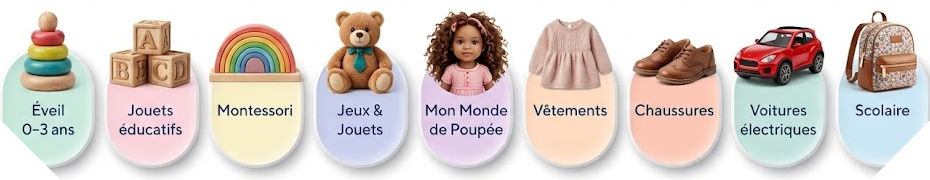
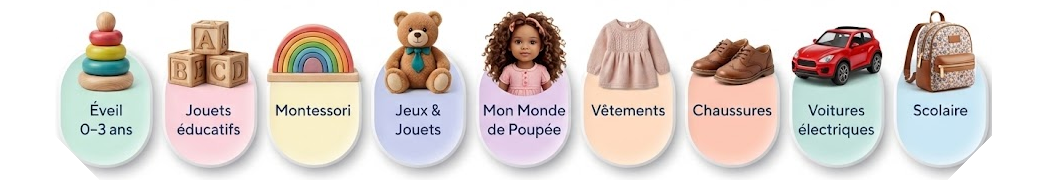
Add spacing around edge category buttons

diff --git a/app/storefront/shop-reference.css b/app/storefront/shop-reference.css
@@ -1,4 +1,4 @@
-.shop-home-sections{background:#fff;padding-bottom:52px}.shop-benefits{display:grid;grid-template-columns:repeat(3,1fr);gap:24px;padding:20px 22px;border-bottom:1px solid #eee}.shop-benefits>div{display:flex;align-items:center;justify-content:center;gap:12px;color:#17364a}.shop-benefits b{font-size:26px}.shop-benefits span{display:grid;font-size:11px;color:#6b7780}.shop-benefits strong{font-size:13px;color:#17364a}.shop-category-strip{margin-block:24px;padding:0;overflow-x:auto;background:#fff;border:1px solid #e8edf0;border-radius:999px;box-shadow:0 6px 22px rgba(23,54,74,.06)}.shop-category-rail{position:relative;width:100%;min-width:930px}.shop-category-rail>img{display:block;width:100%;height:auto}.shop-category-links{position:absolute;inset:0;display:grid;grid-template-columns:repeat(9,1fr)}.shop-category-links a{display:block;border-radius:46px;transition:background .18s ease}.shop-category-links a:hover{background:rgba(255,255,255,.16)}.shop-world-grid{display:grid;grid-template-columns:repeat(4,1fr);gap:12px}.shop-world-grid>a{position:relative;min-height:265px;display:grid;grid-template-columns:54% 46%;overflow:hidden;border-radius:16px;padding:24px 0 0 24px;color:#17364a;background:#fdebea}.shop-world-grid>a:nth-child(2){background:#fce4ee}.shop-world-grid>a:nth-child(3){background:#dcebf6}.shop-world-grid>a:nth-child(4){background:#f8e7ed}.shop-world-grid h2{margin:0 0 10px;font:800 25px/1.02 Arial,sans-serif;text-transform:uppercase}.shop-world-grid p{font-size:13px;line-height:1.4}.shop-world-grid div>span,.shop-seasonal div>span{display:inline-flex;margin-top:12px;padding:9px 14px;border-radius:999px;background:#ed2470;color:#fff;font-size:12px;font-weight:800}.shop-world-grid img{align-self:end;width:100%;height:220px;object-fit:contain;object-position:center bottom}.shop-age{padding-top:30px}.shop-age h2{text-align:center;font:800 25px Arial;color:#17364a}.shop-age>div{display:grid;grid-template-columns:repeat(6,1fr);gap:10px}.shop-age a{display:grid;place-items:center;min-height:100px;border-radius:12px;background:#fff9f6;color:#17364a}.shop-age b{font-size:38px}.shop-age span{font-size:12px;font-weight:800}.shop-seasonal{display:grid;grid-template-columns:1fr 1fr;gap:12px;padding-top:26px}.shop-seasonal>a{display:flex;justify-content:space-between;align-items:center;min-height:145px;padding:24px;border-radius:16px;background:#f8e9d5;color:#17364a}.shop-seasonal>a:nth-child(2){background:#fde7e7}.shop-seasonal h2{font:700 24px/1.05 Georgia,serif;margin:0}.shop-seasonal p{font-size:12px}.shop-seasonal>a>span{font-size:55px}.shop-brands{padding-top:24px}.shop-brands h2{font-size:15px}.shop-brands>div{display:flex;justify-content:center;align-items:center;gap:42px;flex-wrap:wrap;padding:20px}.shop-brands a{font-size:22px;font-weight:900;color:#17456b}.shop-brands a:nth-child(2){color:#e2211c}.shop-brands a:nth-child(5){color:#e52878;font-family:Georgia,serif;font-style:italic}
+.shop-home-sections{background:#fff;padding-bottom:52px}.shop-benefits{display:grid;grid-template-columns:repeat(3,1fr);gap:24px;padding:20px 22px;border-bottom:1px solid #eee}.shop-benefits>div{display:flex;align-items:center;justify-content:center;gap:12px;color:#17364a}.shop-benefits b{font-size:26px}.shop-benefits span{display:grid;font-size:11px;color:#6b7780}.shop-benefits strong{font-size:13px;color:#17364a}.shop-category-strip{margin-block:24px;padding:0;overflow-x:auto;background:#fff;border:1px solid #e8edf0;border-radius:999px;box-shadow:0 6px 22px rgba(23,54,74,.06)}.shop-category-rail{position:relative;width:100%;min-width:1046px}.shop-category-rail>img{display:block;width:100%;height:auto}.shop-category-links{position:absolute;inset:0 34px;display:grid;grid-template-columns:repeat(9,1fr)}.shop-category-links a{display:block;border-radius:46px;transition:background .18s ease}.shop-category-links a:hover{background:rgba(255,255,255,.16)}.shop-world-grid{display:grid;grid-template-columns:repeat(4,1fr);gap:12px}.shop-world-grid>a{position:relative;min-height:265px;display:grid;grid-template-columns:54% 46%;overflow:hidden;border-radius:16px;padding:24px 0 0 24px;color:#17364a;background:#fdebea}.shop-world-grid>a:nth-child(2){background:#fce4ee}.shop-world-grid>a:nth-child(3){background:#dcebf6}.shop-world-grid>a:nth-child(4){background:#f8e7ed}.shop-world-grid h2{margin:0 0 10px;font:800 25px/1.02 Arial,sans-serif;text-transform:uppercase}.shop-world-grid p{font-size:13px;line-height:1.4}.shop-world-grid div>span,.shop-seasonal div>span{display:inline-flex;margin-top:12px;padding:9px 14px;border-radius:999px;background:#ed2470;color:#fff;font-size:12px;font-weight:800}.shop-world-grid img{align-self:end;width:100%;height:220px;object-fit:contain;object-position:center bottom}.shop-age{padding-top:30px}.shop-age h2{text-align:center;font:800 25px Arial;color:#17364a}.shop-age>div{display:grid;grid-template-columns:repeat(6,1fr);gap:10px}.shop-age a{display:grid;place-items:center;min-height:100px;border-radius:12px;background:#fff9f6;color:#17364a}.shop-age b{font-size:38px}.shop-age span{font-size:12px;font-weight:800}.shop-seasonal{display:grid;grid-template-columns:1fr 1fr;gap:12px;padding-top:26px}.shop-seasonal>a{display:flex;justify-content:space-between;align-items:center;min-height:145px;padding:24px;border-radius:16px;background:#f8e9d5;color:#17364a}.shop-seasonal>a:nth-child(2){background:#fde7e7}.shop-seasonal h2{font:700 24px/1.05 Georgia,serif;margin:0}.shop-seasonal p{font-size:12px}.shop-seasonal>a>span{font-size:55px}.shop-brands{padding-top:24px}.shop-brands h2{font-size:15px}.shop-brands>div{display:flex;justify-content:center;align-items:center;gap:42px;flex-wrap:wrap;padding:20px}.shop-brands a{font-size:22px;font-weight:900;color:#17456b}.shop-brands a:nth-child(2){color:#e2211c}.shop-brands a:nth-child(5){color:#e52878;font-family:Georgia,serif;font-style:italic}
 
 @media(max-width:900px){.shop-world-grid{grid-template-columns:repeat(2,1fr)}.shop-category-strip{border-radius:42px}.shop-age>div{grid-template-columns:repeat(3,1fr)}}
 @media(max-width:620px){.shop-benefits{grid-template-columns:1fr}.shop-world-grid{grid-template-columns:1fr}.shop-seasonal{grid-template-columns:1fr}.shop-world-grid>a{min-height:230px}.shop-brands>div{gap:22px}.shop-age>div{grid-template-columns:repeat(2,1fr)}}
